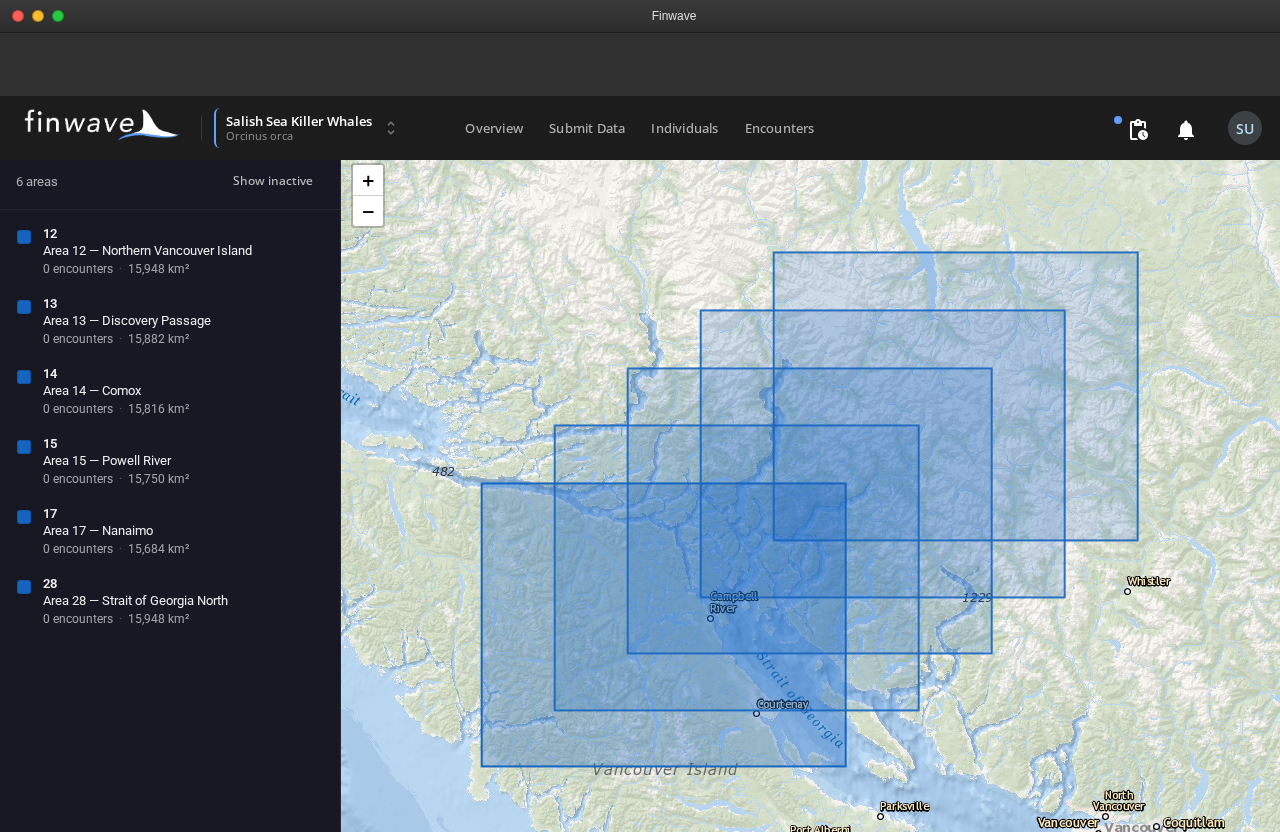
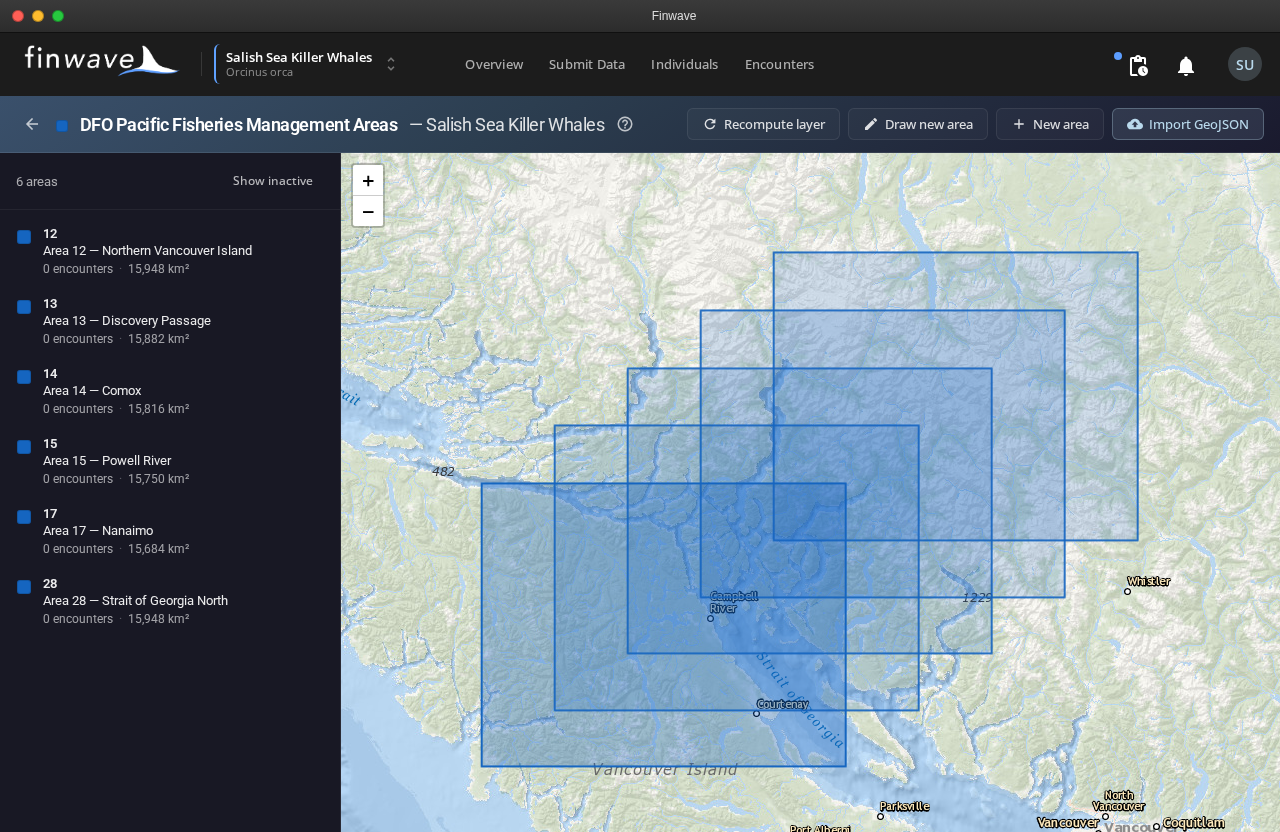
docs

Changed region(s): [[0.0, 0.0625, 1.0, 0.2188]]

diff --git a/src/content/docs/web/administration/management-areas/drawing.md b/src/content/docs/web/administration/management-areas/drawing.md
@@ -34,6 +34,8 @@ The toolbar at the top of the page has three relevant buttons (when no edit is i
 - **+ New area** — opens the Create dialog without drawing first; you'll paste GeoJSON for the geometry.
 - **Import GeoJSON** — bulk import from a file (see [Importing](../importing/)).
 
+![The per-layer canvas page: areas list on the left, an interactive map on the right with the layer's polygons rendered. The toolbar above hosts the draw, paste-geometry, and import buttons.](/screenshots/web/management-areas/02-canvas.png)
+
 ## Drawing a new polygon
 
 1. Click **Draw new area**. The toolbar swaps to a red **Cancel drawing** button.

diff --git a/src/content/docs/web/administration/management-areas/importing.md b/src/content/docs/web/administration/management-areas/importing.md
@@ -33,6 +33,8 @@ The dialog has two tabs at the top:
 
 Either way, finwave parses the input as you type/select and shows a confirmation just below: *"Ready to import 581 feature(s)."* If parsing fails, you'll see exactly which JSON error and where.
 
+![The Import GeoJSON dialog with the Paste tab active, the property-mapping fields below, and the parse-status confirmation row.](/screenshots/web/management-areas/03-import-dialog.png)
+
 ## Property mappings
 
 Below the parser status are four optional override fields:

diff --git a/src/content/docs/web/administration/management-areas/index.md b/src/content/docs/web/administration/management-areas/index.md
@@ -66,3 +66,5 @@ Read on:
 ## Where to find it
 
 In the FinWave web app: open your population's administration page, then click **Management Areas** in the left sidebar. The page lists every layer in the population.
+
+![The Management Areas section on a population's administration page, listing two layers (DFO PFMAs and Internal Study Areas) with their area counts and per-layer toggles.](/screenshots/web/management-areas/01-layer-list.png)
